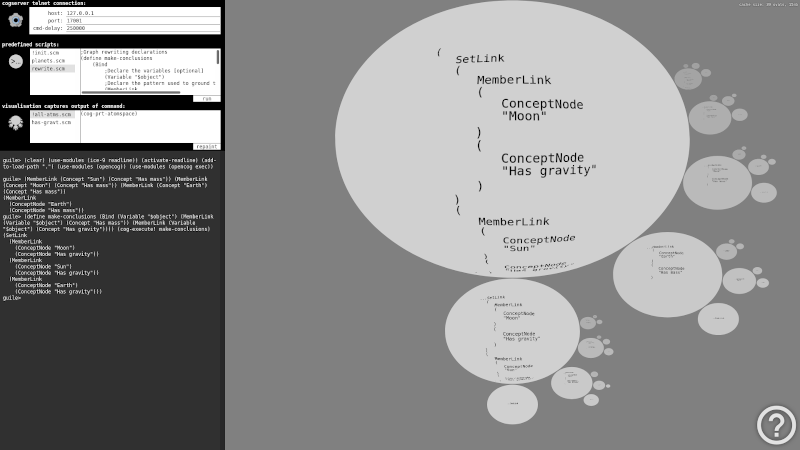
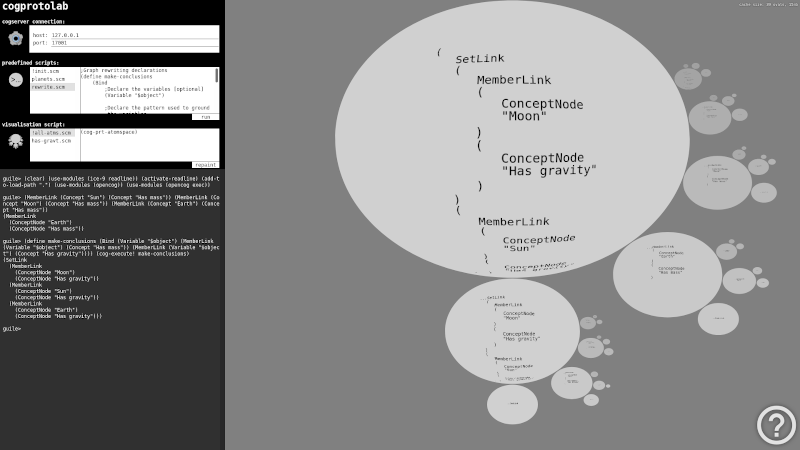
Add files via upload

Changed region(s): [[0.0, 0.0, 0.2812, 0.7467]]

diff --git a/fract.html b/fract.html
@@ -65,8 +65,8 @@
         <div id="divStats" style="position: absolute; top: 5px; right: 5px; font-family: 'monospace'; font-size: 9px; color: white; text-shadow: 0px 0px 2px rgba(0,0,0,1); visibility: hidden;">cache size: 0 ovals, 0 mb</div>
         
         <script>
-            var statNOvals;
-            var statMem;
+            var statNOvals = 0;
+            var statMem = 0;
 
             function GetURLParameter(sParam) {
                 var sPageURL = window.location.search.substring(1);
@@ -100,12 +100,13 @@
             }
 
             function dispatchSize () {
-                var event1 = new CustomEvent('resize1', null);
-                divContainer.dispatchEvent(event1);
+                divContainer.dispatchEvent(new CustomEvent('resize1', null));
             }
             
             var refr = 0;
-            window.addEventListener("message", (event) => {
+            var evt;
+            var msg = (event) => {
+                evt = event;
                 statNOvals = 0;
                 statMem = 0;
 
@@ -122,7 +123,9 @@
                         divStats.style.visibility = "visible";
                     }, 1);
                 }
-            }, false);
+            };
+            
+            window.addEventListener("message", msg, false);
 
             function wonload () {
                 setSize ();
@@ -257,11 +260,12 @@
                 pauseLoading = true;
             }
 
+            var oldOvals = [];
             async function onIdle (ovals) {
                 pauseLoading = false;
                 ovals.sort((a, b) => (a.radius > b.radius) ? -1 : 1)
                 for (i = 0; i < ovals.length && !pauseLoading; i++) {
-                    if (!ovals[i].data.scaledBitmap) {
+                    if (!ovals[i].data.cachedCnv || !ovals[i].data.scaledBitmap) {
                         try {
                             await loadOval (ovals[i].data, refr);
                         } catch (e) {
@@ -269,6 +273,29 @@
                         }
                     }
                 }
+                /*
+                for (var i1 = 0; i1 < oldOvals.length; i1++) {
+                    is = false;
+                    for (var i2 = 0; i2 < ovals.length; i2++) {
+                        if (oldOvals[i1].data === ovals[i2].data) {
+                            is = true;
+                            break;
+                        }
+                    }
+                    
+                    if (!is) {
+                        var node = oldOvals[i1].data;
+                        if (node.cachedCnv && node.img) {
+                            statNOvals--;
+                            statMem -= node.img.width * node.img.height * 4 + node.cachedCnv.width + node.cachedCnv.height * 4 * 2.5;
+                        }
+
+                        oldOvals[i1].data.cachedCnv = null;
+                        oldOvals[i1].data.cachedData = null;
+                        oldOvals[i1].data.scaledBitmap = null;
+                    }
+                }
+                */
             }
             
             async function loadOval(data, oldrefr) {
@@ -286,7 +313,7 @@
 
                             if (node.cachedCnv) {
                                 statNOvals++;
-                                statMem += node.img.width * node.img.height * 4 + node.cachedCnv.width + node.cachedCnv.height * 4 * 1.5;
+                                statMem += node.img.width * node.img.height * 4 + node.cachedCnv.width + node.cachedCnv.height * 4 * 2.5;
                                 divStats.innerHTML = "cache size: " + statNOvals + " ovals, " + Math.round(statMem / 1024 / 1024)  + "mb";
                                 
                                 resolve ();

diff --git a/ctrl.html b/ctrl.html
@@ -48,7 +48,8 @@
       <section>
         <div id="divContainer" style="visibility: hidden; overflow: hidden; position: absolute; top: 0px; bottom: 0px; left: 0px; right: 0px; border-sytle: none; padding:0; margin:0;">
             <div id="params" style="/*position: absolute; left: 0px; right: 0px; top: 0px;*/ border-style: none; padding:0; margin:0; padding-left: 5px; font-family: 'monospace'; color: white; background-color: black">
-                <strong>cogserver connection:</strong><br/>
+                <strong id="title">cogprotolab</strong><br/>
+                <br/><strong>cogserver connection:</strong><br/>
                 <table id="tbl" style="border-sytle: none; padding:0; margin:0;">
                     <tr>
                         <td id="td0" valign="top">
@@ -241,6 +242,8 @@
             }
 
             function setSize () {
+                document.getElementById ("title").style.fontSize = 2 * env.fontSize + "px";
+                
                 divContainer.style.top = env.shadowRadius + "px";
                 divContainer.style.left = env.shadowRadius + "px";
                 divContainer.style.bottom = env.shadowRadius + "px";
@@ -490,7 +493,7 @@
             
             function runCmd (cmd, delay) {
                 if (myTimeout) clearTimeout (myTimeout);
-                parsed = parser.getParseTree (rules, cmd);
+                parsed = parser.getParseTree (rules, cmd.replaceAll(/;((.*\\n)|(.*$))/gm, " ").replaceAll(/( *\n *)+/gm, " ").replaceAll(/^ +/gm, ""));
                 if (cmd.trim() === "" || parsed.success) {
                     sendcmd (cmd.replaceAll(/;((.*\\n)|(.*$))/gm, " ").replaceAll(/( *\n *)+/gm, " ").replaceAll(/^ +/gm, "") + "\n").then (
                         (response) => {

diff --git a/src/telnet.php b/src/telnet.php
@@ -25,7 +25,7 @@
 
         //read socket
         while (true) {
-            usleep(10000);
+            usleep(25000);
             $response = "";
             while (($ret = fgets($fp)) != false) {
                 if (substr($ret, -25) == "[0;34mguile[1;34m> [0m") {

diff --git a/README.md b/README.md
@@ -16,7 +16,7 @@ Newcomers to OpenCog may face a dificulty of working with command line which are
 
 The application is consisted of two panes. Left pane contains telnet configuration parameters, and some utility controls to corroborate input command prompt for communicating to CogServer. Input command prompt tries to simulate standard REPL scheme interface to CogServer. Multiline input is obtained by holding `shift` while hitting `enter`. Standard pasting from clipboard should also work fine. History of previously entered commands is accessed by pressing up and down arrows. Entered command is sent to CogServer on hitting `enter` on its own. Output of the command is then brought back and displayed in the prompt interface. At the same time, right pane visualizer is updated to reflect the current visualisation query to AtomSpace. Please refer to built in application instructions for info about navigating visualizer (the bottom-right questionmark).
 
-## how it works
+## how does it work
 
 *CogProtoLab* left pane command prompt internally uses a php telnet connection for exchanging information with CogServer. Upon sending each prompt input, while its output is being captured and displayed as text, a hidden telnet query command from the current contents of `visualisation script` text area is being sent to CogServer. Its output is then captured by *CogProtoLab* and visually displayed in the right pane.
 
@@ -31,7 +31,7 @@ After installing prerequisites, there is no build procedure, just clone this pac
 
 ### running
 
-As a first step, we have to run `cogserver` from the OS command prompt, then to open `index.html` from the package root in a web browser over the HTTP server, possibly to adjust telnet connection defaults, and we are ready to start interacting with AtomSpace in *CogProtoLab*.
+As a first step, we have to run `cogserver` from the OS command prompt where a HTTP server resides, then to open `index.html` from the package root in a web browser over the HTTP server, possibly to adjust telnet connection defaults, and we are ready to start interacting with AtomSpace in *CogProtoLab*.
 
 To modify predefined scripts and visualisation commands, we can edit, create, or delete files in folders `dir-scripts/` and `dir-visuals/`, respectively. Contents of these folders are automatically loaded into the web page upon loading or refreshing it. We can also edit (but not create or delete) these files directly in the browser, although the changes will not be permanently saved.
 
@@ -80,7 +80,7 @@ After opening *CogProtoLab* application in web browser, one can perform a simple
     ;Trigger graph rewriting
     (cog-execute! make-conclusions)
 
-Entering the above commands to *CogProtoLab* command prompt should give a basic insight in tracing incremental AtomSpace inhabitation. For more examples, please refer to [AtomSpace demo examples](https://github.com/opencog/atomspace/tree/master/examples/atomspace) and [official OpenCog documentation](https://wiki.opencog.org/w/The_Open_Cognition_Project).
+Successively  entering the above commands to *CogProtoLab* command prompt should give a basic insight in tracing incremental AtomSpace inhabitation. For more examples, please refer to [AtomSpace demo examples](https://github.com/opencog/atomspace/tree/master/examples/atomspace) and [official OpenCog documentation](https://wiki.opencog.org/w/The_Open_Cognition_Project).
 
 ## known issues
 
